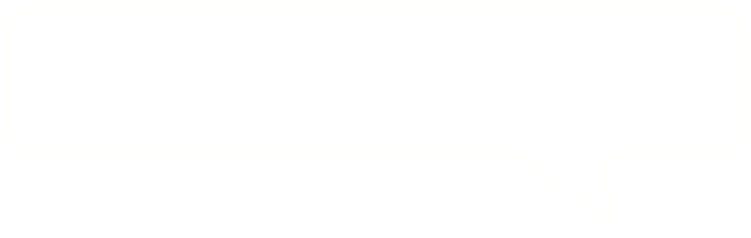
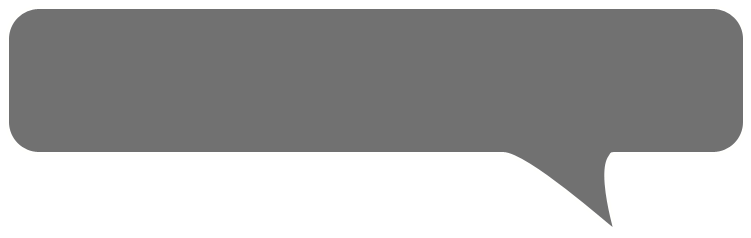
Bubble Message changed; info is shown on first start

diff --git a/qml/picture-show2/BubbleMessage.qml b/qml/picture-show2/BubbleMessage.qml
@@ -48,12 +48,12 @@ Item {
             width: parent.width / 4
             fillMode: Image.PreserveAspectFit
             anchors.bottom: parent.bottom
-            anchors.bottomMargin: height / 6
-            anchors.right: parent.right
-            anchors.rightMargin:  height / 6
+            anchors.bottomMargin: info_box.isVisible() ? parent.height / 7 : height / 6
+            anchors.left: parent.left
+            anchors.leftMargin:  height / 6
             source: "qrc:///img/bubble.png"
             smooth: true
-            opacity: 0.8
+            opacity: 1.0
         }
 
         Image {
@@ -66,7 +66,7 @@ Item {
             anchors.verticalCenterOffset: -(bubble_screen_image.height / 6)
             source: "qrc:///img/message_info.png"
             smooth: true
-            opacity: 0.4
+            opacity: 0.8
         }
 
         Text {
@@ -83,7 +83,7 @@ Item {
             anchors.verticalCenter: bubble_screen_image.verticalCenter
             anchors.verticalCenterOffset: -(bubble_screen_image.height / 6)
             smooth: true;
-            opacity: 0.8
+            opacity: 0.9
             text: ""
         }
     }

diff --git a/supervisor.cpp b/supervisor.cpp
@@ -45,7 +45,6 @@ Supervisor::Supervisor(QObject *parent) :
     qmlRegisterType<QTimer>("my.library", 1, 0, "QTimer");
 
     m_quickView->engine()->setImportPathList(QStringList());
-//    m_quickView->engine()->addImportPath("qrc:///qml/qml");
     m_quickView->engine()->addImportPath("./qml");
 
     m_quickView->setMainQmlFile(QString("qrc:///qml/main.qml"));
@@ -150,10 +149,7 @@ Supervisor::Supervisor(QObject *parent) :
     if (!m_setDialog->getFirstStart())
         QTimer::singleShot(900, m_setDialog, SLOT(show()));
     else
-    {
         QTimer::singleShot(900, this, SLOT(showHelpOverlay()));
-        m_setDialog->setFirstStart(false);
-    }
 
     emit refresh();
 }
@@ -622,6 +618,15 @@ void Supervisor::startShowFinished()
         m_overlayTransitions++;
         emit infoBox();
     }
+    else if (m_setDialog->getFirstStart())
+    {
+        m_infoActive = true;
+        m_overlayTransitions++;
+        emit infoBox();
+        QTimer::singleShot(1000, this, SLOT(showBubbleMessage_info()));
+    }
+
+//    m_setDialog->setFirstStart(false);
 
     this->processWaitingQueue();
 }
@@ -840,15 +845,29 @@ void Supervisor::keyPressEvent( QKeyEvent * event )
     case Qt::Key_M:
         this->applyNewOptions();
         break;
-    case Qt::Key_Right:
     case Qt::Key_PageDown:
         {
             this->nextImagePressed();
         }
         break;
-    case Qt::Key_Left:
+    case Qt::Key_Right:    
+        {
+            if (m_activeInputMode == MODE_JUMPTO)
+                this->upOrDownPressed(true);
+            else
+                this->nextImagePressed();
+        }
+        break;
     case Qt::Key_PageUp:
         {
+            this->prevImagePressed();
+        }
+        break;
+    case Qt::Key_Left:
+        {
+        if (m_activeInputMode == MODE_JUMPTO)
+            this->upOrDownPressed(false);
+        else
             this->prevImagePressed();
         }
         break;
@@ -1432,6 +1451,11 @@ void Supervisor::showCustomMessage(QString imageUrl, QString title, QString text
     emit showMessage(QVariant(imageUrl), QVariant(title), QVariant(text), QVariant(info));
     if (timeout != 0)
         m_messageTimeout->start(timeout);
+}
+
+void Supervisor::showBubbleMessage_info()
+{
+    emit bubbleBox(QVariant(tr("Informationsleiste mit \"I\" ein- und wieder ausblenden!")), QVariant(8000));
 }
 
 void Supervisor::hideMessage()

diff --git a/supervisor.h b/supervisor.h
@@ -154,6 +154,7 @@ private slots:
     void hideHelpOverlay();
 
     void showCustomMessage(QString imageUrl, QString title, QString text, int timeout = 0, bool info = false);
+    void showBubbleMessage_info();
     void hideMessage();
 
     void queueTask(WaitingTask task);
